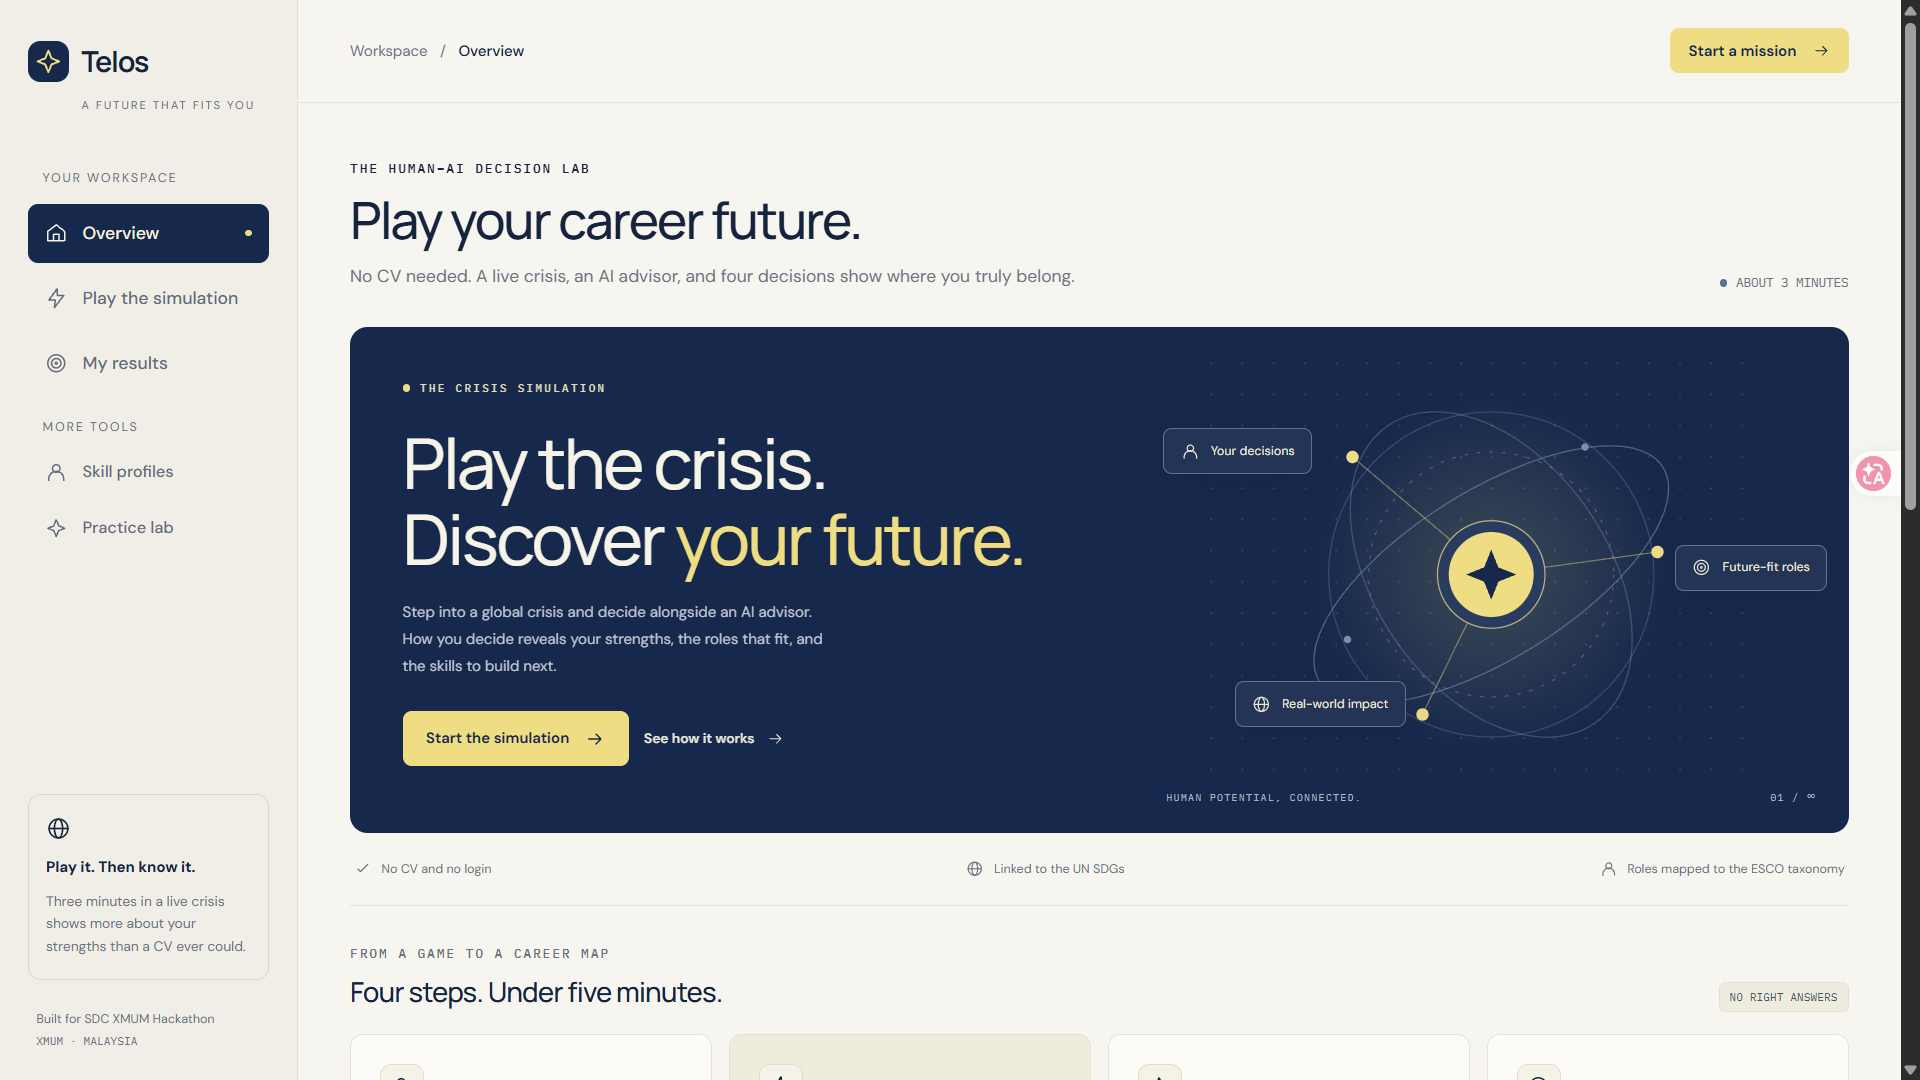
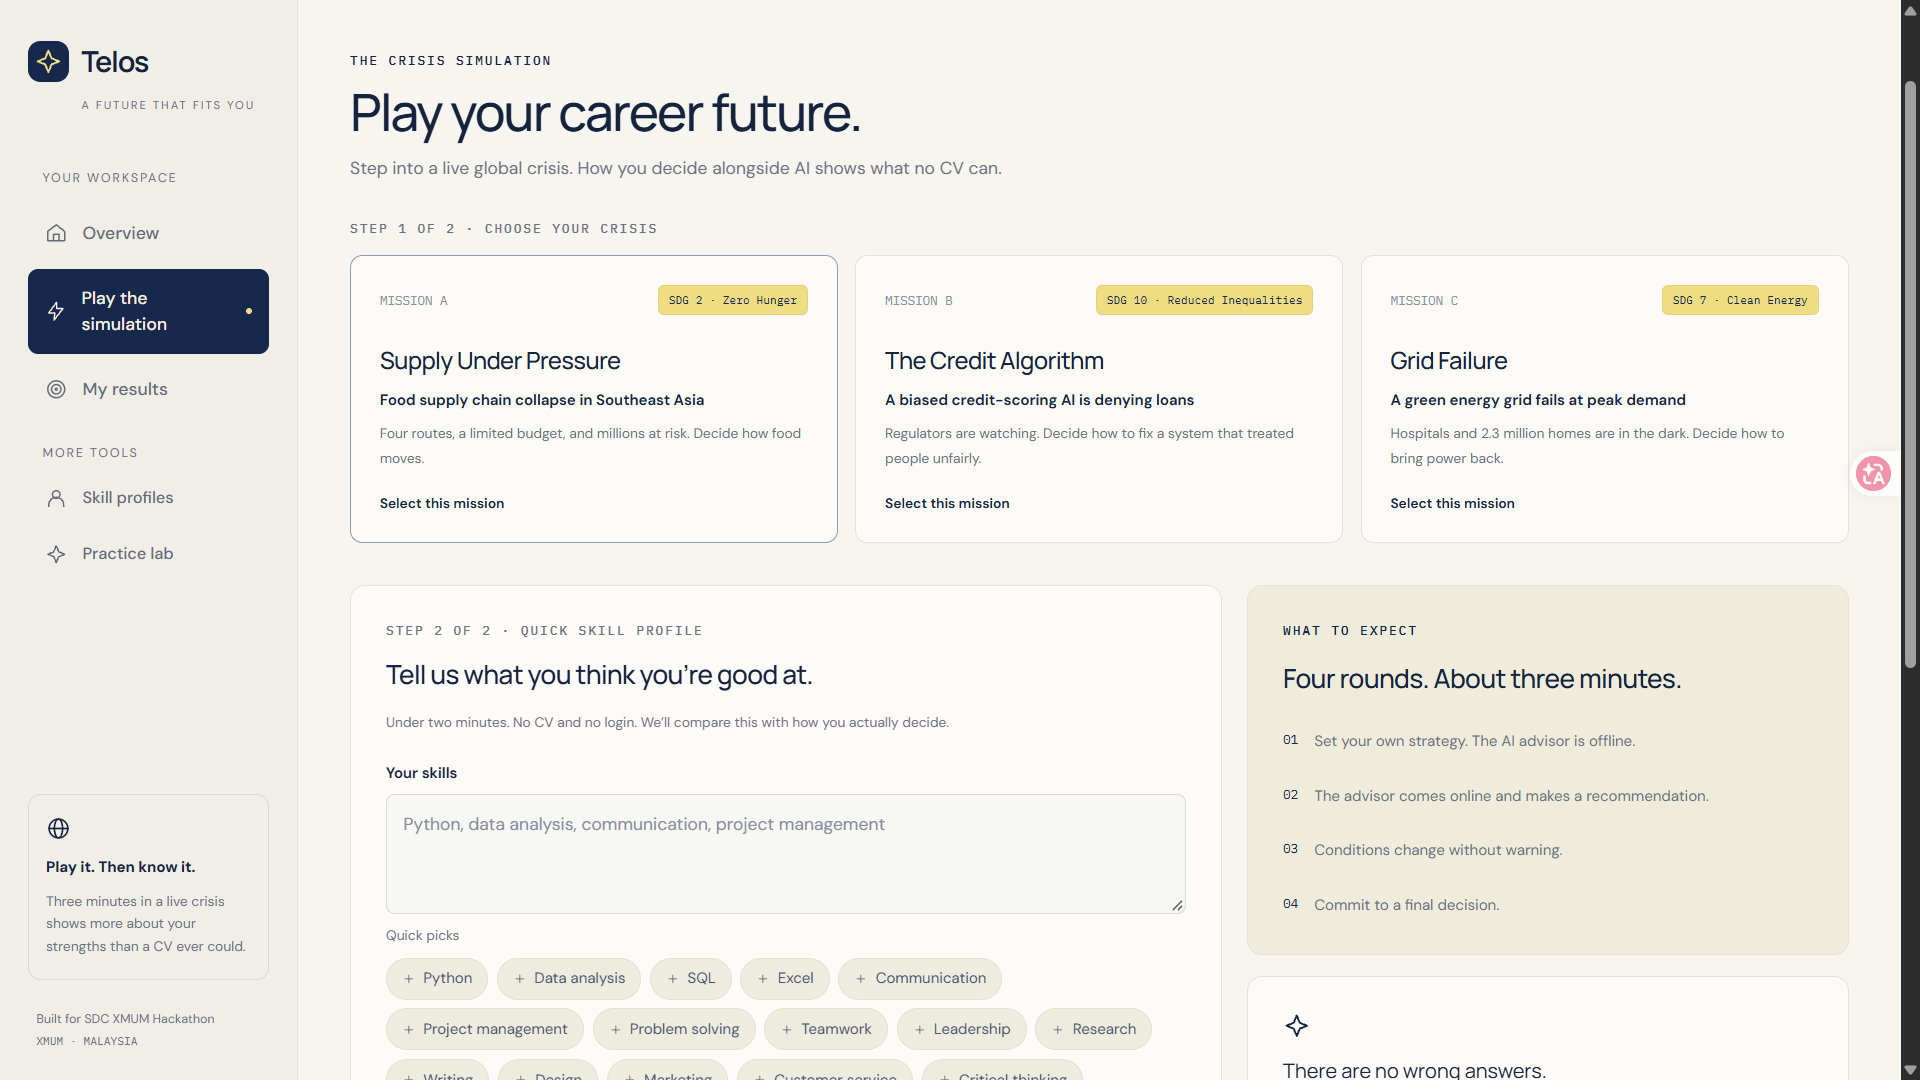
fix: overview image

diff --git a/README.md b/README.md
@@ -3,6 +3,9 @@
 > **Telos** is an interactive simulation platform that evaluates human–AI decision-making under crisis to generate authentic behavioral skill profiles and personalized career pathways.
 
 ![Telos Simulation Demo](docs/preview.png)
+![Result page demo](docs/result_page.png)
+![Role Matching Result Demo](docs/role_matching.png)
+**Project Website Link**: https://telospath.replit.app/
 
 ---
 
